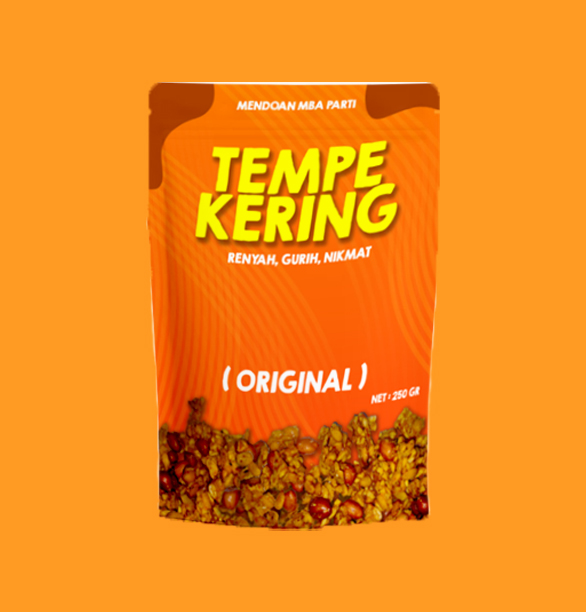
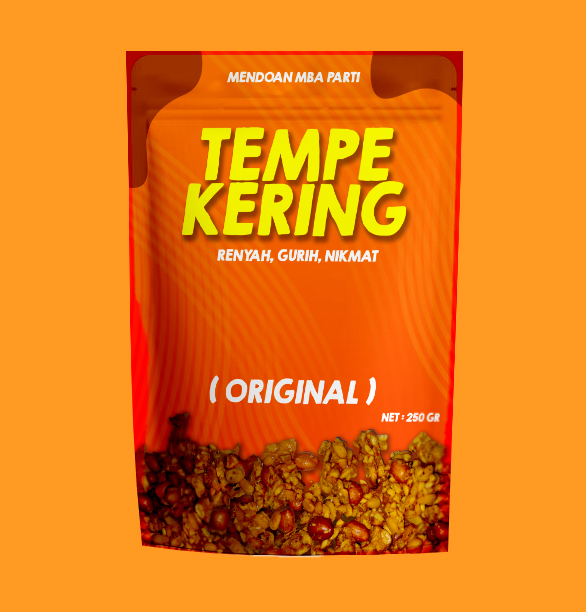
updateimagetempe

Changed region(s): [[0.215, 0.0621, 0.7986, 0.9314]]

diff --git a/index.html b/index.html
@@ -86,7 +86,7 @@
                             <!-- Sale badge-->
                             <div class="badge bg-dark text-white position-absolute" style="top: 0.5rem; right: 0.5rem">Sale</div>
                             <!-- Product image-->
-                            <img class="card-img-top" src="assets/image/tempekering.jpg" alt="..." />
+                            <img class="card-img-top" src="assets/image/tempekeringpedas.jpg" alt="..." />
                             <!-- Product details-->
                             <div class="card-body p-4">
                                 <div class="text-center">
@@ -120,7 +120,7 @@
                             <!-- Sale badge-->
                             <div class="badge bg-dark text-white position-absolute" style="top: 0.5rem; right: 0.5rem">Sale</div>
                             <!-- Product image-->
-                            <img class="card-img-top" src="assets/image/tempekering.jpg" alt="..." />
+                            <img class="card-img-top" src="assets/image/tempekeringteri.jpg" alt="..." />
                             <!-- Product details-->
                             <div class="card-body p-4">
                                 <div class="text-center">
